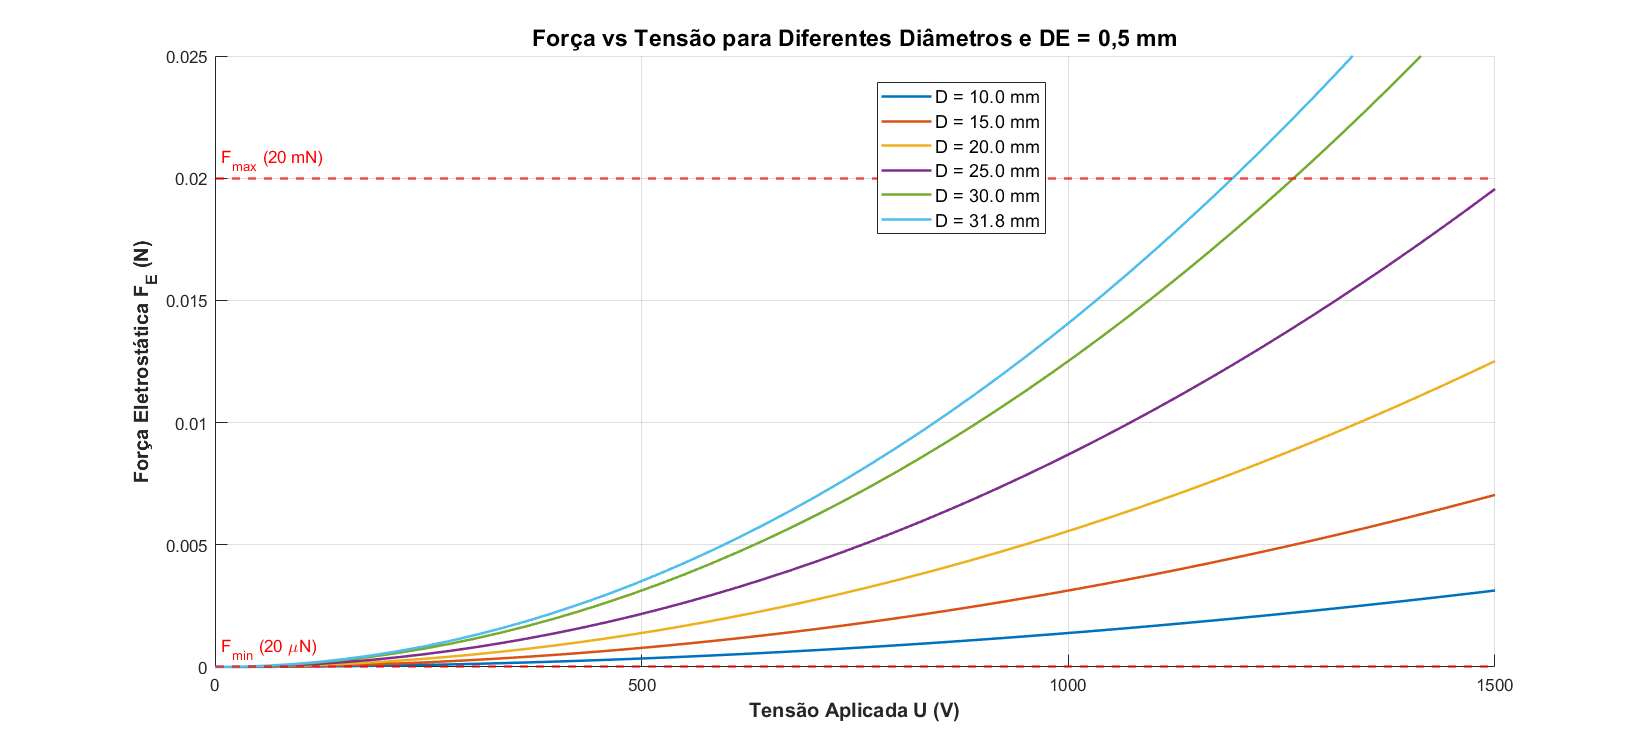
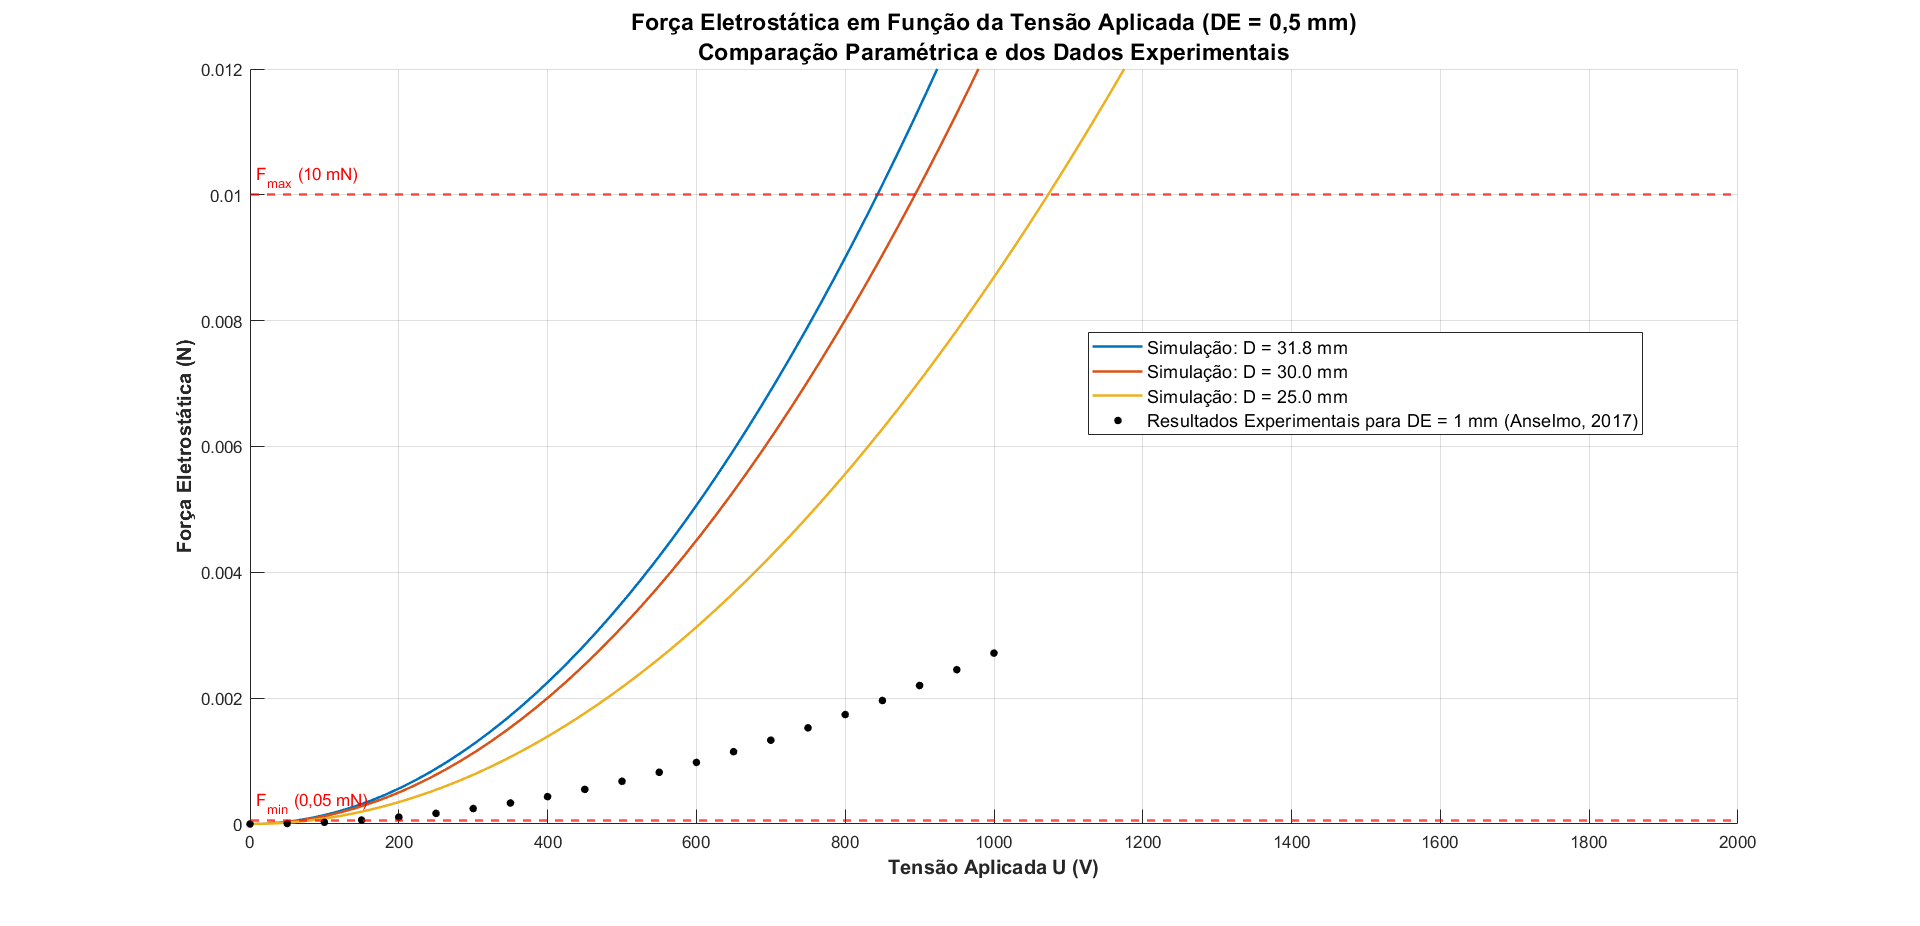
Aualizações DCE_calculos - comparacoes entre os resultados analiticos e experimentais do INPE + grafico de erro relativo

diff --git a/Análises/src/DCE_calculos.m b/Análises/src/DCE_calculos.m
@@ -1,57 +1,119 @@
 clear all; clc; close all;
 
-%% 1. DEFINIÇÃO DE PARÂMETROS FIXOS
+%% 1. DEFINIÇÃO DE PARÂMETROS FIXOS E VARIÁVEIS DO SISTEMA
 % Constante dielétrica do vácuo
 e0 = 8.85418781 * 10^(-12); % F/m
 
-% Distâncias (em metros)
-DE = 0.001; % Distância longitudinal entre os eletrodos (gap de separação)
-g  = 0.0005; % Gap radial entre o eletrodo menor e o anel de guarda 
+% Distâncias e Diâmetro (em metros)
+DE = 0.001; % Distância longitudinal entre os eletrodos (1 mm)
+d  = 31.8e-3; % Diâmetro menor (31.8 mm)
+AE = (pi / 4) * (d)^2; % Área efetiva
 
-% Faixa de força alvo para calibração (em N)
-FE_min = 0.00002; % 20 uN
-FE_max = 0.020;   % 20 mN
+% Limites de projeto da balança (convertidos de mN para N)
+FE_min = 0.05e-3; 
+FE_max = 10e-3;   
 
-% Vetor de tensões a serem aplicadas (de 0 a 1000 V)
-% Aumentado para 100 pontos para garantir curvas suaves no plot
-U = linspace(0, 1500, 50); 
+%% 2. CONJUNTO DE DADOS BASE
+% --- DADOS EXPERIMENTAIS (INPE / Anselmo, 2017) ---
+V_exp = [0, 50, 100, 150, 200, 250, 300, 350, 400, 450, 500, ...
+         550, 600, 650, 700, 750, 800, 850, 900, 950, 1000];
+F_exp_uN = [0, 7, 27, 62, 109, 169, 245, 334, 435, 550, 679, ...
+            822, 979, 1149, 1332, 1528, 1739, 1963, 2201, 2452, 2716];
+F_exp_N = F_exp_uN * 1e-6; % Conversão para Newtons
 
-%% 2. PARÂMETROS DE ANÁLISE (DIÂMETROS)
-% Definindo um vetor de diâmetros para testar (ex: de 20 mm a 60 mm)
-% d_testes contém os valores em metros
-d_testes = [0.010 : 0.005 : 0.030, 0.0318];
+%% 3. MODELAGEM EMPÍRICA (Curva do INPE)
+% Ajuste polinomial de 2º grau (F = a*V^2 + b*V + c)
+p_inpe = polyfit(V_exp, F_exp_N, 2);
 
-%% 3. PREPARAÇÃO DA FIGURA
-figure('Name', 'Análise Paramétrica do DCE', 'Position', [100, 100, 800, 600]);
-hold on; grid on;
+%% 4. EXTRAPOLAÇÃO MATEMÁTICA E CÁLCULO DE RAÍZES
+% Isolando V na equação analítica: V = DE * sqrt((2 * F) / (e0 * AE))
+V_max_req_ana = DE * sqrt((2 * FE_max) / (e0 * AE));
 
-%% 4. LOOP DE CÁLCULO E PLOTAGEM
-for i = 1:length(d_testes)
-    d = d_testes(i); % Seleciona o diâmetro da iteração atual
-    
-    % Cálculo da área efetiva do eletrodo menor (m^2)
-    AE = (pi / 4) * (d)^2; 
-    
-    % Calculo da força gerada (N)
-    % Nota: Uso de './' e '.^' para operações element-wise no vetor U
-    FE = 0.5 * e0 * (U ./ DE).^2 * AE;
-    
-    % Plot da curva para o diâmetro atual
-    % Convertendo d para mm apenas para o texto da legenda
-    plot(U, FE, 'LineWidth', 1.5, 'DisplayName', sprintf('D = %.1f mm', d * 1000));
-end
+% Para achar o V no modelo empírico (F = 10 mN)
+coef_max = p_inpe; coef_max(3) = coef_max(3) - FE_max;
+raizes_max = roots(coef_max);
+V_max_req_inpe = max(raizes_max(imag(raizes_max)==0));
 
-%% 5. MARCAÇÃO DOS LIMITES DE PROJETO
-% Desenha linhas horizontais vermelhas tracejadas para mostrar a janela de operação
-yline(FE_min, '--r', 'F_{min} (20 \muN)', 'LineWidth', 1.5, 'LabelHorizontalAlignment', 'left', 'HandleVisibility', 'off');
-yline(FE_max, '--r', 'F_{max} (20 mN)', 'LineWidth', 1.5, 'LabelHorizontalAlignment', 'left', 'HandleVisibility', 'off');
-%% 6. FORMATAÇÃO DO GRÁFICO
-xlabel('Tensão Aplicada U (V)', 'FontSize', 12, 'FontWeight', 'bold');
-ylabel('Força Eletrostática F_E (N)', 'FontSize', 12, 'FontWeight', 'bold');
-title('Força vs Tensão para Diferentes Diâmetros e DE = 1 mm', 'FontSize', 14);
-legend('Location', 'best', 'FontSize', 11);
+%% 5. GERAÇÃO DOS DADOS EXTRAPOLADOS PARA PLOTAGEM
+% O eixo X vai até a maior tensão necessária (mais 5% de margem)
+V_limite_plot = max(V_max_req_ana, V_max_req_inpe) * 1.05;
+U_extrapolado = linspace(0, V_limite_plot, 200); 
 
-% Ajuste dos eixos para focar na região de interesse
-%xlim([0, 1500]); 
-ylim([0, 0.025]); 
+% Curvas Extrapoladas
+F_analitico_extra = 0.5 * e0 * (U_extrapolado ./ DE).^2 * AE;
+F_inpe_extra = polyval(p_inpe, U_extrapolado); 
+
+%% 6. GRÁFICO 1: COMPARAÇÃO E EXTRAPOLAÇÃO GERAL
+figure('Name', 'Extrapolação: Força vs Tensão', 'Position', [100, 100, 850, 600]);
+hold on; grid on; box on;
+
+plot(U_extrapolado, F_analitico_extra, 'k-', 'LineWidth', 1.5, 'DisplayName', 'Modelo Analítico');
+plot(U_extrapolado, F_inpe_extra, '--b', 'LineWidth', 1.5, 'DisplayName', 'Modelo Empírico Extrapolado (Anselmo, 2017)');
+plot(V_exp, F_exp_N, 'bo', 'MarkerFaceColor', 'b', 'MarkerSize', 5, 'DisplayName', 'Medições Físicas (Anselmo, 2017)');
+
+% Marcação de pontos de projeto: F_max = 10 mN
+plot(V_max_req_ana, FE_max, 'ko', 'MarkerFaceColor', 'k', 'MarkerSize', 6, 'HandleVisibility', 'off');
+plot(V_max_req_inpe, FE_max, 'bs', 'MarkerFaceColor', 'b', 'MarkerSize', 6, 'HandleVisibility', 'off');
+
+% Limites de projeto (Linhas horizontais)
+yline(FE_min, '--r', 'F_{min} = 0,05 mN', 'LabelHorizontalAlignment', 'left', 'HandleVisibility', 'off');
+yline(FE_max, '--r', 'F_{max} = 10 mN', 'LabelHorizontalAlignment', 'left', 'HandleVisibility', 'off');
+
+title('Extrapolação da Força Eletrostática e Tensão Aplicada (DE = 1 mm)', 'FontSize', 12, 'FontWeight', 'bold');
+xlabel('Tensão Aplicada (V)', 'FontSize', 11); ylabel('Força Eletrostática (N)', 'FontSize', 11);
+legend('Location', 'best', 'FontSize', 10);
+xlim([0, V_limite_plot]); ylim([0, FE_max * 1.1]); 
 hold off;
+
+
+%% 7. AVALIAÇÃO DE ERRO RELATIVO DA ANÁLISE COMPLETA
+
+% --- A) Erro Pontual (Fórmula vs Dados Físicos do INPE até 1000V) ---
+F_analitico_em_Vexp = 0.5 * e0 * (V_exp ./ DE).^2 * AE;
+idx_valid_pts = F_exp_N > 0; 
+erro_rel_pontos = zeros(size(F_exp_N));
+erro_rel_pontos(idx_valid_pts) = abs(F_analitico_em_Vexp(idx_valid_pts) - F_exp_N(idx_valid_pts)) ./ F_exp_N(idx_valid_pts) * 100;
+
+% --- B) Erro Extrapolado (Fórmula vs Curva Empírica do INPE até ~1850V) ---
+% Ignora tensões muito próximas a zero para evitar distorção assintótica na divisão
+idx_valid_extra = U_extrapolado >= 50 & F_inpe_extra > 0; 
+erro_rel_extrapolado = zeros(size(U_extrapolado));
+erro_rel_extrapolado(idx_valid_extra) = abs(F_analitico_extra(idx_valid_extra) - F_inpe_extra(idx_valid_extra)) ./ F_inpe_extra(idx_valid_extra) * 100;
+
+
+%% 8. GRÁFICO 2: ERRO RELATIVO COMPLETO
+figure('Name', 'Erro Relativo Completo', 'Position', [150, 150, 750, 450]);
+hold on; grid on; box on;
+
+% Plota a curva do erro extrapolado contínuo
+plot(U_extrapolado(idx_valid_extra), erro_rel_extrapolado(idx_valid_extra), '--k', ...
+    'LineWidth', 1.5, 'DisplayName', 'Erro Relativo Contínuo (Analítico vs Empírico)');
+
+% Sobrepõe os pontos de erro validados fisicamente
+plot(V_exp(idx_valid_pts), erro_rel_pontos(idx_valid_pts), 'ko', ...
+    'LineWidth', 1.5, 'MarkerSize', 5, 'MarkerFaceColor', 'k', ...
+    'DisplayName', 'Erro Validado Fisicamente (vs Medições)');
+
+yline(0, '--k', 'LineWidth', 1, 'HandleVisibility', 'off');
+
+title('Evolução do Erro Relativo na Extrapolação Completa', 'FontSize', 12, 'FontWeight', 'bold');
+xlabel('Tensão Aplicada (V)', 'FontSize', 11);
+ylabel('Erro Relativo (%)', 'FontSize', 11);
+legend('Location', 'best', 'FontSize', 10);
+xlim([50, V_limite_plot]);
+hold off;
+
+
+%% 9. RESUMO NO CONSOLE
+fprintf('\n========================================================================\n');
+fprintf('                  RESULTADOS DA ANÁLISE DE ERRO COMPLETA                  \n');
+fprintf('========================================================================\n');
+
+fprintf('\n[ ZONA DE MEDIÇÃO FÍSICA (Até 1000V) ]\n');
+fprintf('Erro Relativo Máximo    : %.2f%%\n', max(erro_rel_pontos));
+fprintf('Erro Relativo Médio     : %.2f%%\n', mean(erro_rel_pontos(idx_valid_pts)));
+
+fprintf('\n[ ZONA EXTRAPOLADA COMPLETA (Até %.0fV - Limite do Projeto) ]\n', V_limite_plot);
+fprintf('Erro Relativo na Tensão de 10 mN (Analítico vs Empírico): %.2f%%\n', erro_rel_extrapolado(end));
+fprintf('Erro Relativo Médio na faixa total extrapolada          : %.2f%%\n', mean(erro_rel_extrapolado(idx_valid_extra)));
+fprintf('========================================================================\n\n');

diff --git a/Análises/src/DCE_resultados_Ansys.m b/Análises/src/DCE_resultados_Ansys.m
@@ -1,0 +1,47 @@
+% script_calibracao_eletrostatica.m
+% Plota a curva de calibração de Força vs Tensão Aplicada
+close all; clear; clc;
+
+% 1. Inicialização dos dados da tabela originais
+V_aplicada = [0.0; 0.1; 0.2; 0.3; 0.4; 0.5; 0.6; 0.7; 0.8; 0.9; 1.0]; % [kV]
+Force_mag = [0.0; 0.037196; 0.148784; 0.334765; 0.595137; ...
+             0.929902; 1.339059; 1.822608; 2.380550; 3.012883; 3.719609]; % [mN]
+
+% 2. Ajuste da Curva (Polinômio de 2º grau: F = a*V^2 + b*V + c)
+p = polyfit(V_aplicada, Force_mag, 2);
+
+% ========================================================
+% MODIFICAÇÃO 1: Geração de pontos até 3.0 kV (3000 V)
+V_curva = linspace(0, 2.0, 100); % Extrapolação até 3 kV
+% ========================================================
+F_curva = polyval(p, V_curva);
+
+% 4. Criação e formatação da figura (Padrão Acadêmico)
+figure;
+hold on;
+grid on;
+box on;
+
+% Plota os pontos reais (marcadores) e a curva de ajuste (linha contínua)
+plot(V_curva, F_curva, 'k-', 'LineWidth', 1, 'DisplayName', 'Ajuste Quadratico (Extrapolado)');
+plot(V_aplicada, Force_mag, 'ko', 'MarkerFaceColor', 'k', 'MarkerSize', 5, 'DisplayName', 'Dados Simulados');
+
+% Formatação de rótulos e título
+title('Simulação DCE: Força vs Tensão Aplicada', 'FontSize', 12, 'FontWeight', 'bold');
+xlabel('Tensão Aplicada (V) [kV]', 'FontSize', 11);
+ylabel('Magnitude da Força Elestrostática [mN]', 'FontSize', 11);
+
+% ========================================================
+% MODIFICAÇÃO 2: Novo ajuste do eixo Y (Força) para caber os 33.5 mN
+ylim([0.0 10]);
+xlim([0 2.0]); % Adicionado um limite extra no eixo X para a curva respirar
+% ========================================================
+
+% Adiciona a legenda e ajusta a fonte dos eixos
+legend('Location', 'northwest', 'Interpreter', 'latex', 'FontSize', 10);
+set(gca, 'FontSize', 10, 'TickDir', 'out');
+
+% 5. Exibição da equação governante no console
+fprintf('Equação do ajuste metrológico:\n');
+fprintf('F = %.6f * V^2 + (%.6f) * V + (%.6f)\n', p(1), p(2), p(3));
+fprintf('\nForça projetada para 3000V (3.0 kV): %.4f mN\n', polyval(p, 3.0));